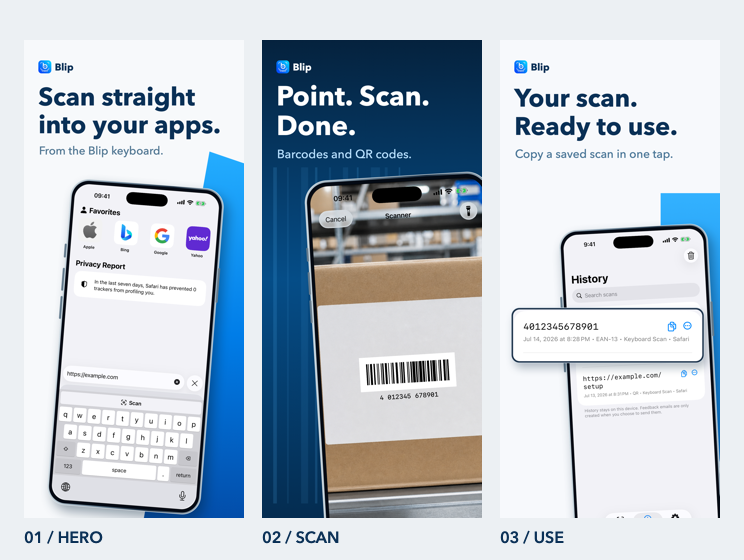
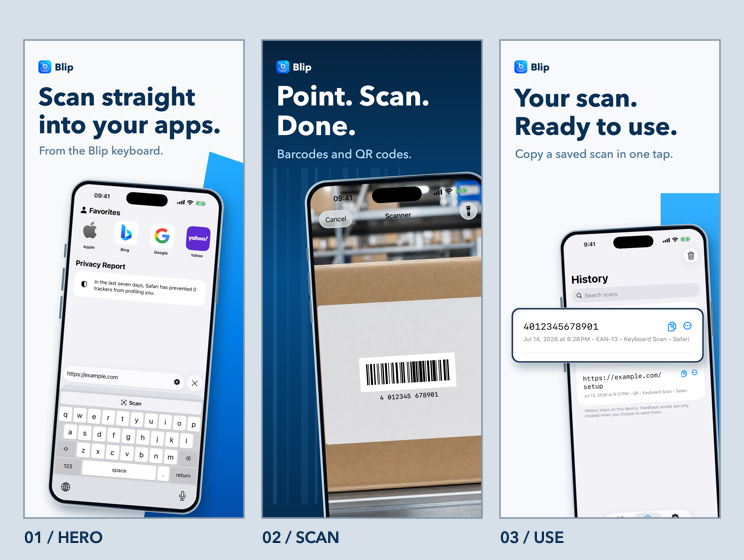
Frame concept contact sheet previews consistently

diff --git a/scripts/compose_app_store_concepts.swift b/scripts/compose_app_store_concepts.swift
@@ -251,12 +251,16 @@ let margin: CGFloat = 24
 let gap: CGFloat = 18
 let sheet = CGSize(width: margin * 2 + thumb.width * 3 + gap * 2, height: 24 + thumb.height + 58)
 let sheetCtx = context(sheet)
-sheetCtx.setFillColor(color(0xE7ECF0))
+sheetCtx.setFillColor(color(0xCED9E3))
 sheetCtx.fill(CGRect(origin: .zero, size: sheet))
 for (index, file) in ["01-hero.png", "02-scan.png", "03-use.png"].enumerated() {
     let item = try image(output.appendingPathComponent(file))
     let x = margin + CGFloat(index) * (thumb.width + gap)
-    sheetCtx.draw(item, in: CGRect(x: x, y: 42, width: thumb.width, height: thumb.height))
+    let frame = CGRect(x: x, y: 42, width: thumb.width, height: thumb.height)
+    sheetCtx.draw(item, in: frame)
+    sheetCtx.setStrokeColor(color(0x718499))
+    sheetCtx.setLineWidth(1.5)
+    sheetCtx.stroke(frame)
     text(["01 / HERO", "02 / SCAN", "03 / USE"][index], x: x, baseline: 17,
          width: thumb.width, size: 16, fontName: "AvenirNext-DemiBold", fill: ink, ctx: sheetCtx)
 }
